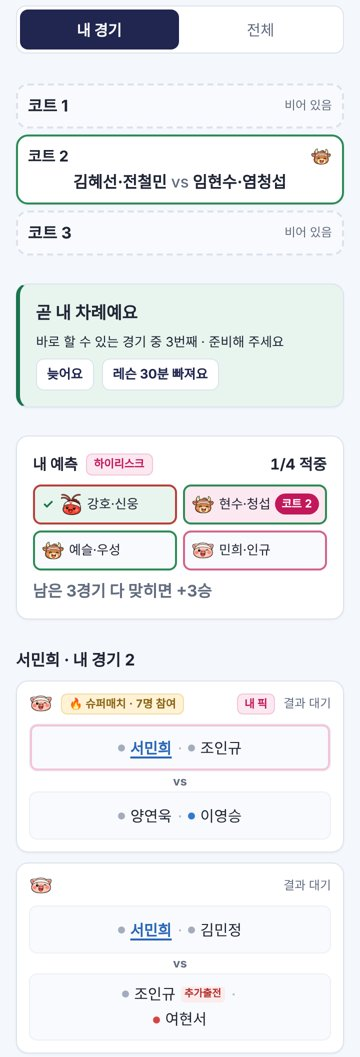
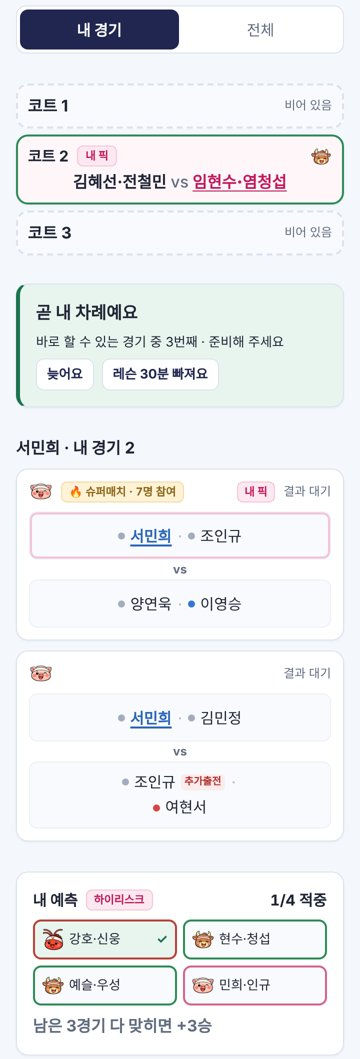
내 예측: ✓ 오른쪽, 진행 중은 맨 위 코트에 '내 픽', 내 경기 먼저
- 예측 칸 코트 배지 빼고 ✓·✕를 이름 오른쪽에
- 지금 코트에 내가 예측한 경기면 '내 픽' + 고른 팀 강조
- 내 경기 보기: 내 경기 → 내 예측 순서
- deploy 36 passed, logic 130 passed

Claude-Session: https://claude.ai/code/session_01498pYHck4bYyNtFkEfaMTU

diff --git a/app.js b/app.js
@@ -253,8 +253,9 @@
     var mine = ui.me && !ui.admin && ui.wview !== 'all';
     if (!ui.admin) out += ui.me ? '<div class="seg wview" role="group" aria-label="보기"><button data-act="wview" data-v="mine" aria-pressed="' + (ui.wview !== 'all') + '">내 경기</button><button data-act="wview" data-v="all" aria-pressed="' + (ui.wview === 'all') + '">전체</button></div>'
       : '<p class="small muted">내 기록 탭에서 이름을 고르면 <b>내 경기만</b> 모아 볼 수 있어요.</p>';
-    if (board && !ui.admin) out += courtsStrip(w, board, P) + (ui.me ? myLiveCard(w, board, P) : '');
-    if (ui.me && !ui.admin) out += myPredCard(w, myp, lvp, P);
+    if (board && !ui.admin) out += courtsStrip(w, board, P, pickOf) + (ui.me ? myLiveCard(w, board, P) : '');
+    // 내 경기 보기: 내 경기 → 내 예측 순서 (사용자 요청 2026-11-22), 전체 보기: 내 예측 → 전체 경기
+    if (ui.me && !ui.admin && !mine) out += myPredCard(w, myp, lvp, P);
     if (mine) {
       var my = [];
       groups().concat([{ id: null }]).forEach(function (g) {
@@ -264,7 +265,7 @@
       });
       out += my.length ? '<section class="my-matches"><h3>' + esc((P[ui.me] || {}).name || '') + ' · 내 경기 ' + my.length + '</h3><div class="match-list">' + my.join('') + '</div></section>'
         : '<div class="card empty"><b>' + md(w.date) + '(수)엔 내 경기가 없어요</b><p class="muted">전체를 누르면 모든 경기를 볼 수 있어요.</p></div>';
-      return out;
+      return out + myPredCard(w, myp, lvp, P);
     }
     out += legend();
     groups().forEach(function (g) {
@@ -462,11 +463,9 @@
     return '<div class="pick4' + (small ? ' sm' : '') + (grp ? ' grp' : '') + '">' + s.picks.slice().sort(function (x, y) { return ord(x) - ord(y); }).map(function (p) {
       var m = matchById(w, p.match);
       var face = m ? gface(m.pool) : '';   // 조는 얼굴 아이콘 (점·조 이름 없이)
-      // 내 예측 카드: 그 경기가 코트에 들어가 있으면 '코트 N' (돼장 저장 → Realtime으로 바로)
-      var onCourt = grp && m && m.court && !m.win;
-      var icon = PK_ICON[p.result] ? '<i aria-hidden="true">' + PK_ICON[p.result] + '</i>' : '';   // 대기는 아이콘 없이
-      return '<span class="pk ' + p.result + (onCourt ? ' live' : '') + (grp && m ? ' g' + m.pool : '') + '">' + icon + face + '<span>' + esc(grp ? shortTeam(m, p.side, P) : teamText(m, p.side, P)) + '</span>' +
-        (onCourt ? '<b class="pk-court num">코트 ' + m.court + '</b>' : '') + '<span class="sr">' + (onCourt ? '코트 ' + m.court + ' 경기 중' : PK_SR[p.result]) + '</span></span>';
+      // ✓·✕는 이름 오른쪽, 대기는 아이콘 없이 (진행 중 코트는 맨 위 '지금 코트'에 표시, 2026-11-22)
+      var icon = PK_ICON[p.result] ? '<i class="pk-res" aria-hidden="true">' + PK_ICON[p.result] + '</i>' : '';
+      return '<span class="pk ' + p.result + (grp && m ? ' g' + m.pool : '') + '">' + face + '<span>' + esc(grp ? shortTeam(m, p.side, P) : teamText(m, p.side, P)) + '</span>' + icon + '<span class="sr">' + PK_SR[p.result] + '</span></span>';
     }).join('') + '</div>';
   }
 
@@ -579,10 +578,13 @@
     return out;
   }
   // 회원: 오늘 코트 상황(진행 중 3칸)
-  function courtsStrip(w, b, P) {
+  // pickOf: 내 예측 {경기 id: {side}} → 내가 예측한 경기가 코트에 있으면 '내 픽'과 고른 팀 강조
+  function courtsStrip(w, b, P, pickOf) {
     if (!b.courts.some(Boolean)) return '';
     return '<section class="courts mini" aria-label="지금 코트">' + b.courts.map(function (m, k) {
-      return m ? '<div class="court on g' + m.pool + '"><b>코트 ' + (k + 1) + '</b>' + gface(m.pool) + '<span class="c-names">' + teamNames(m, 'a', P) + '<i>vs</i>' + teamNames(m, 'b', P) + '</span></div>'
+      var pk = pickOf && pickOf[m && m.id];
+      var tn = function (side) { var t = teamNames(m, side, P); return pk && pk.side === side ? '<b class="c-pick">' + t + '</b>' : t; };
+      return m ? '<div class="court on g' + m.pool + (pk ? ' mine-pick' : '') + '"><b>코트 ' + (k + 1) + '</b>' + (pk ? '<span class="chip mypick">내 픽</span>' : '') + gface(m.pool) + '<span class="c-names">' + tn('a') + '<i>vs</i>' + tn('b') + '</span></div>'
         : '<div class="court empty"><b>코트 ' + (k + 1) + '</b><span>비어 있음</span></div>';
     }).join('') + '</section>';
   }

diff --git a/deploy.test.js b/deploy.test.js
@@ -368,7 +368,12 @@ test('이름: 내 예측 카드만 이름만, 나머지는 성까지·가운데 
   assert.ok(/var nm = p \? p\.name : '빈 자리';/.test(appSrc), '경기 카드는 성까지 써야 함');
   const pick = appSrc.slice(appSrc.indexOf('function pickCells('), appSrc.indexOf('function pickCells(') + 1800);
   assert.ok(/grp \? shortTeam\(/.test(pick), '내 예측 카드(grp)는 이름만이어야 함');
-  assert.ok(/m\.court && !m\.win/.test(pick) && /코트 ' \+ m\.court/.test(pick), '내 예측 칸에 진행 중 코트 표시 없음');
+  assert.ok(!/pk-court/.test(pick), '내 예측 칸의 코트 배지는 빼기로 함(맨 위 코트에 표시)');
+  assert.ok(/face \+ '<span>' \+ esc\([^;]*\) \+ '<\/span>' \+ icon/.test(pick), '✓·✕가 이름 오른쪽에 있어야 함');
+  const strip = appSrc.slice(appSrc.indexOf('function courtsStrip('), appSrc.indexOf('function myLiveCard('));
+  assert.ok(/pickOf/.test(strip) && /내 픽/.test(strip), '맨 위 코트에 내 예측 경기 표시 없음');
+  const wk = appSrc.slice(appSrc.indexOf('if (mine) {\n      var my = [];'), appSrc.indexOf('    out += legend();'));
+  assert.ok(/my-matches[\s\S]*myPredCard\(/.test(wk), '내 경기 보기에서 내 경기가 내 예측보다 먼저여야 함');
   assert.ok(!/gdot/.test(pick) && /gface\(/.test(pick), '예측 칸이 아직 점(gdot)을 씀');
   assert.ok(/pending: ''/.test(appSrc) && !/⏳/.test(appSrc), '모래시계가 남아 있음');
   const live = appSrc.slice(appSrc.indexOf('function viewLive('), appSrc.indexOf('function myLiveCard('));

diff --git a/app.css b/app.css
@@ -680,6 +680,7 @@ p .crown { margin-right: 2px; }
 .my-pred.mini { padding: 10px 12px; margin-bottom: 12px; }
 .my-pred.mini p { margin: 0; }
 button.link { border: 0; background: none; padding: 0; font: inherit; font-weight: 700; color: var(--navy); text-decoration: underline; text-underline-offset: 3px; cursor: pointer; }
+.my-matches { margin-bottom: 14px; }
 .my-matches h3 { margin: 0 0 8px; font-size: 16px; }
 .my-matches .match-list { display: grid; gap: 10px; }
 .m-grp { font-size: var(--fs-cap); color: var(--text-2); margin-bottom: -4px; }
@@ -792,5 +793,10 @@ button.link { border: 0; background: none; padding: 0; font: inherit; font-weigh
 
 /* 예측 칸: 내 예측 말고는 가운데, 내 예측은 진행 중 코트 표시 (2026-11-22) */
 .pick4:not(.grp) .pk { justify-content: center; }
-.pk .pk-court { margin-left: auto; flex: none; font-size: 11px; font-weight: 700; color: #fff; background: var(--plan-text); border-radius: 999px; padding: 2px 7px; }
-.pk.live { background: #FCE8F0; }
+.pk .pk-res { margin-left: auto; font-style: normal; font-weight: 700; }   /* ✓·✕는 오른쪽 */
+.pick4:not(.grp) .pk .pk-res { margin-left: 4px; }
+/* 맨 위 지금 코트: 내가 예측한 경기 */
+.courts.mini .court.mine-pick { background: #FFF6FA; }
+.courts.mini .court .chip.mypick { justify-self: start; font-size: 11px; padding: 1px 8px; }
+.courts.mini .court.mine-pick { grid-template-columns: auto auto 1fr; }
+.c-pick { color: var(--plan-text); text-decoration: underline; text-underline-offset: 3px; }

diff --git a/docs/deploy-log.md b/docs/deploy-log.md
@@ -1108,4 +1108,20 @@ $ node deploy.test.js | tail -1; node logic.test.js | tail -1
 130 passed
 ```
 가짜 서버(MOCK_TODAY, 서민희 하이리스크): 돼장이 픽 2번째 경기를 코트 2, 1번째를 코트 3에 넣고 결과 → 내 예측 `✓ 강호·신웅 | 현수·청섭 코트 2 | 예슬·우성 | 민희·인규`, "남은 3경기 다 맞히면 +3승", 경기 카드 "서민희·조인규 / 양연욱·이영승" 가운데. 360·390px 잘린 글자 0, 가로 넘침 없음. 돼장 경기 진행 "서민희·조인규 vs 양연욱·이영승".
-사진: docs/screenshots/live-courts/my_pred_court_360.jpg
+사진: docs/screenshots/live-courts/my_pred_court_360.jpg (45번에서 새 화면으로 바뀜)
+
+## 45. 내 예측: ✓ 오른쪽·코트 배지 빼고 맨 위 코트에 '내 픽'·내 경기 먼저 (사용자 요청, 같은 브랜치 feat/live-courts, 2026-11-22)
+44번을 보고: 적중 체크는 오른쪽, 내가 예측한 경기가 진행 중이면 맨 위 '지금 코트'에 표시, 내 예측과 내 경기 순서 바꾸기, 내 예측 칸의 `코트 N` 배지는 빼기.
+- 예측 칸: 얼굴 → 이름 → ✓·✕(오른쪽 끝). 코트 배지·분홍 배경 없앰.
+- 지금 코트: 내가 예측한 경기면 `내 픽` 칩 + 칸 연분홍 + 내가 고른 팀 이름 분홍 밑줄.
+- 내 경기 보기 순서: 지금 코트 → 내 차례 → **내 경기 → 내 예측**. 전체 보기는 내 예측 → 전체 경기 그대로.
+```
+$ node deploy.test.js   (테스트 먼저: 코트 배지 없음·✓ 오른쪽·지금 코트 내 픽·내 경기 먼저)
+  FAIL 이름: …
+35 passed
+$ node deploy.test.js | tail -1; node logic.test.js | tail -1
+36 passed
+130 passed
+```
+가짜 서버(서민희, 픽 2번째 경기를 코트 2에): 지금 코트 "코트 2 내 픽 김혜선·전철민 vs 임현수·염청섭"(고른 팀 강조), 순서 my-matches → my-pred, 예측 칸 "강호·신웅 ✓ / 현수·청섭 / 예슬·우성 / 민희·인규". 360·390px 잘린 글자 0, 넘침 없음.
+사진: docs/screenshots/live-courts/my_pred_court_360.jpg (44번 사진을 바꿈)
